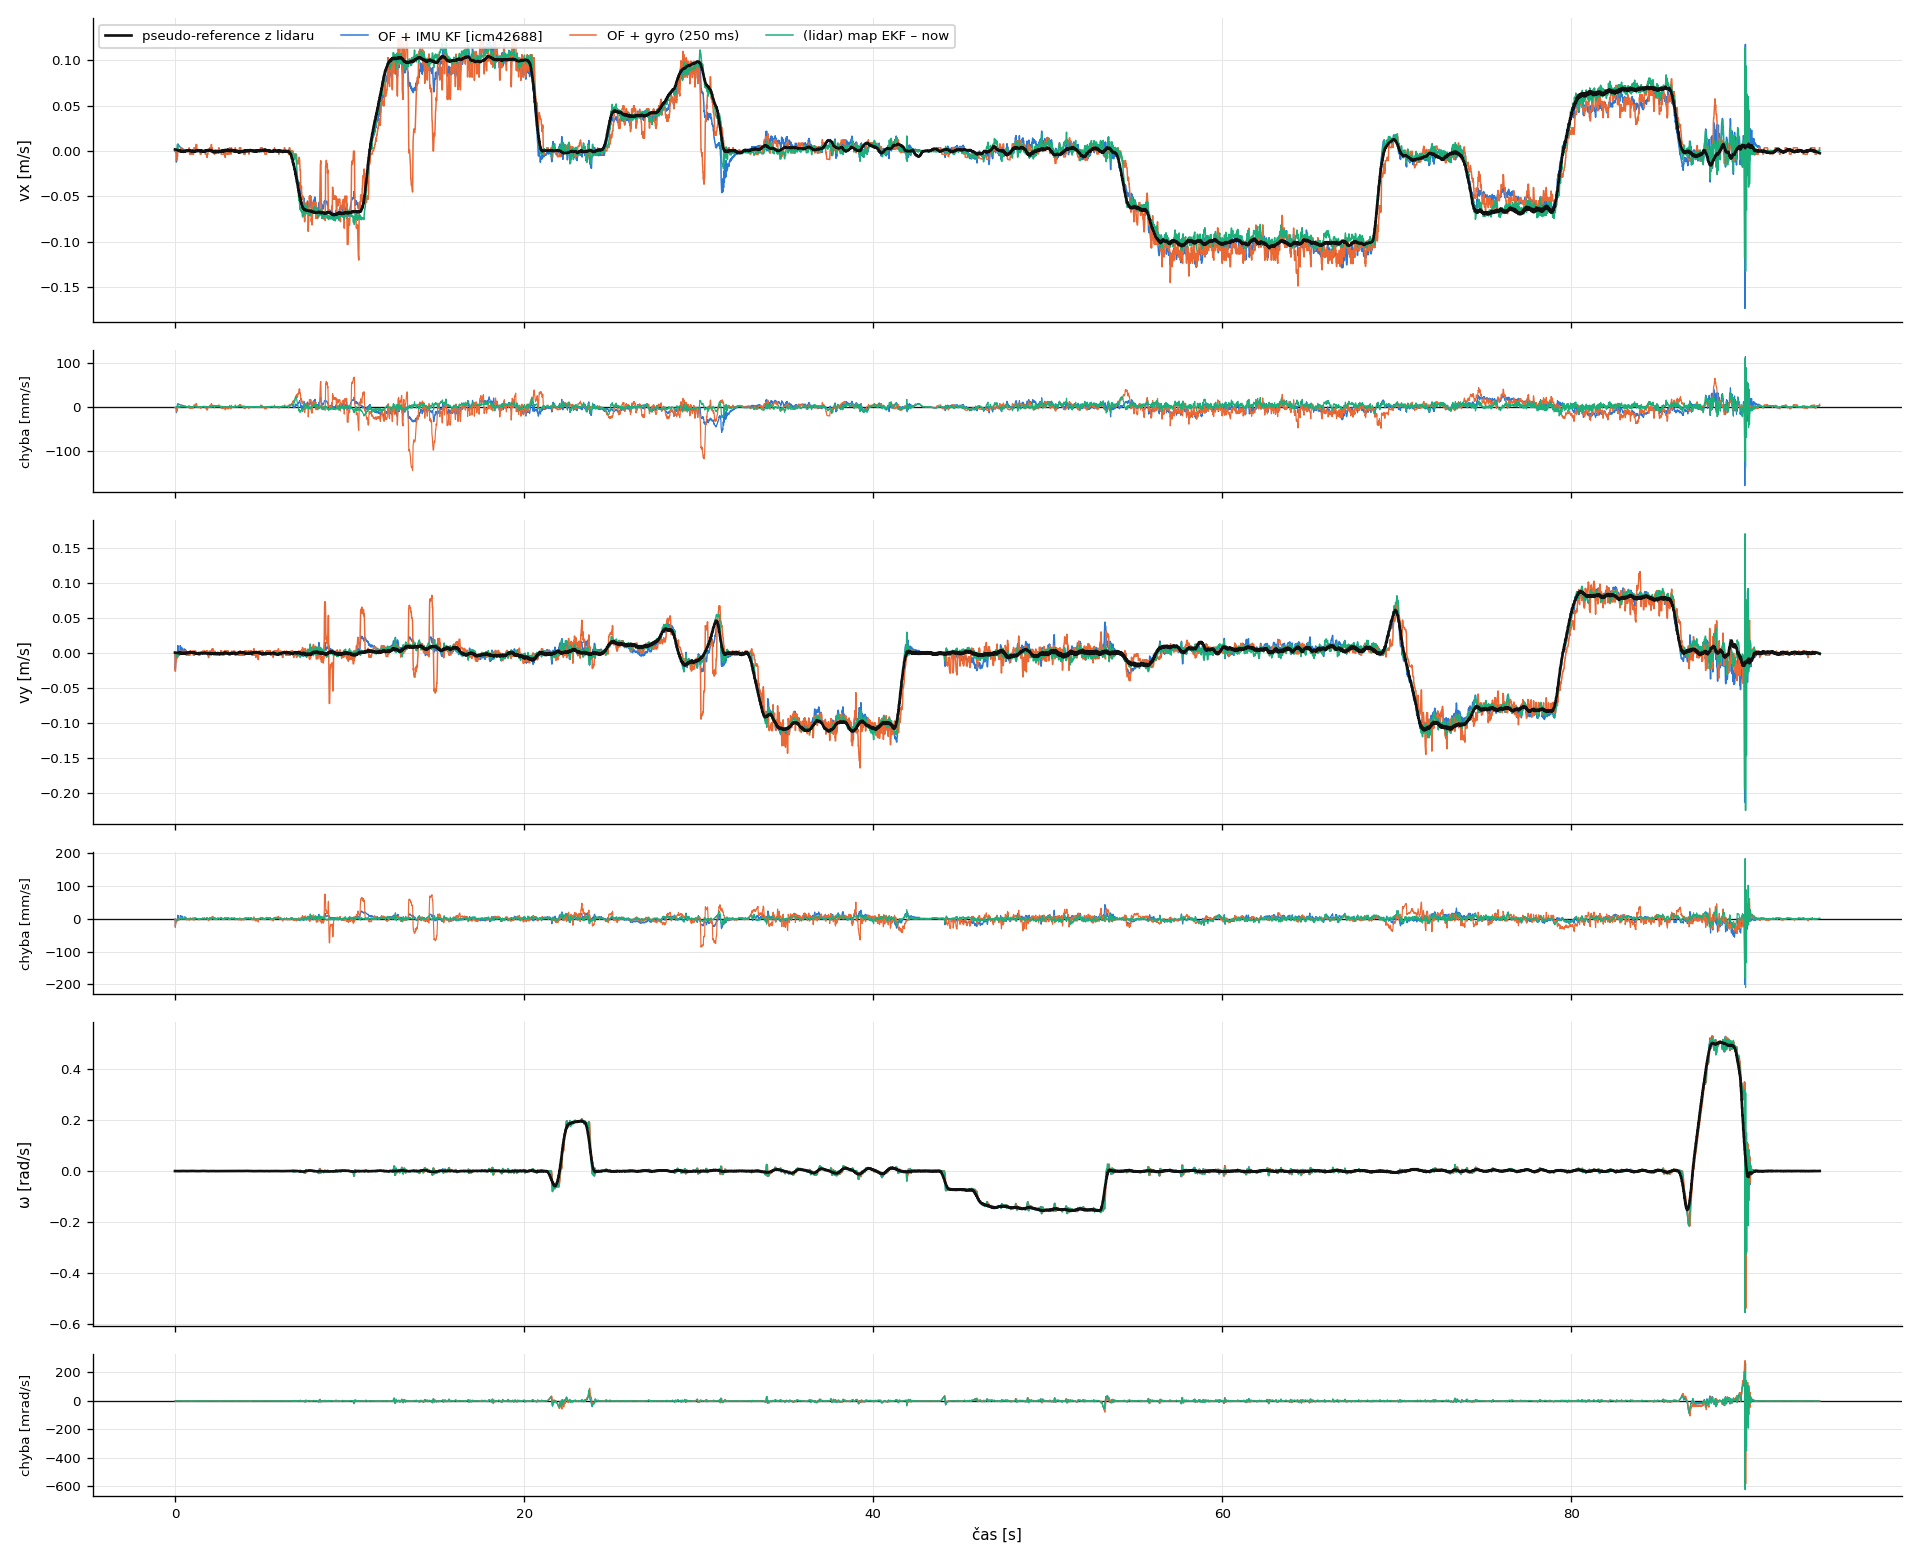
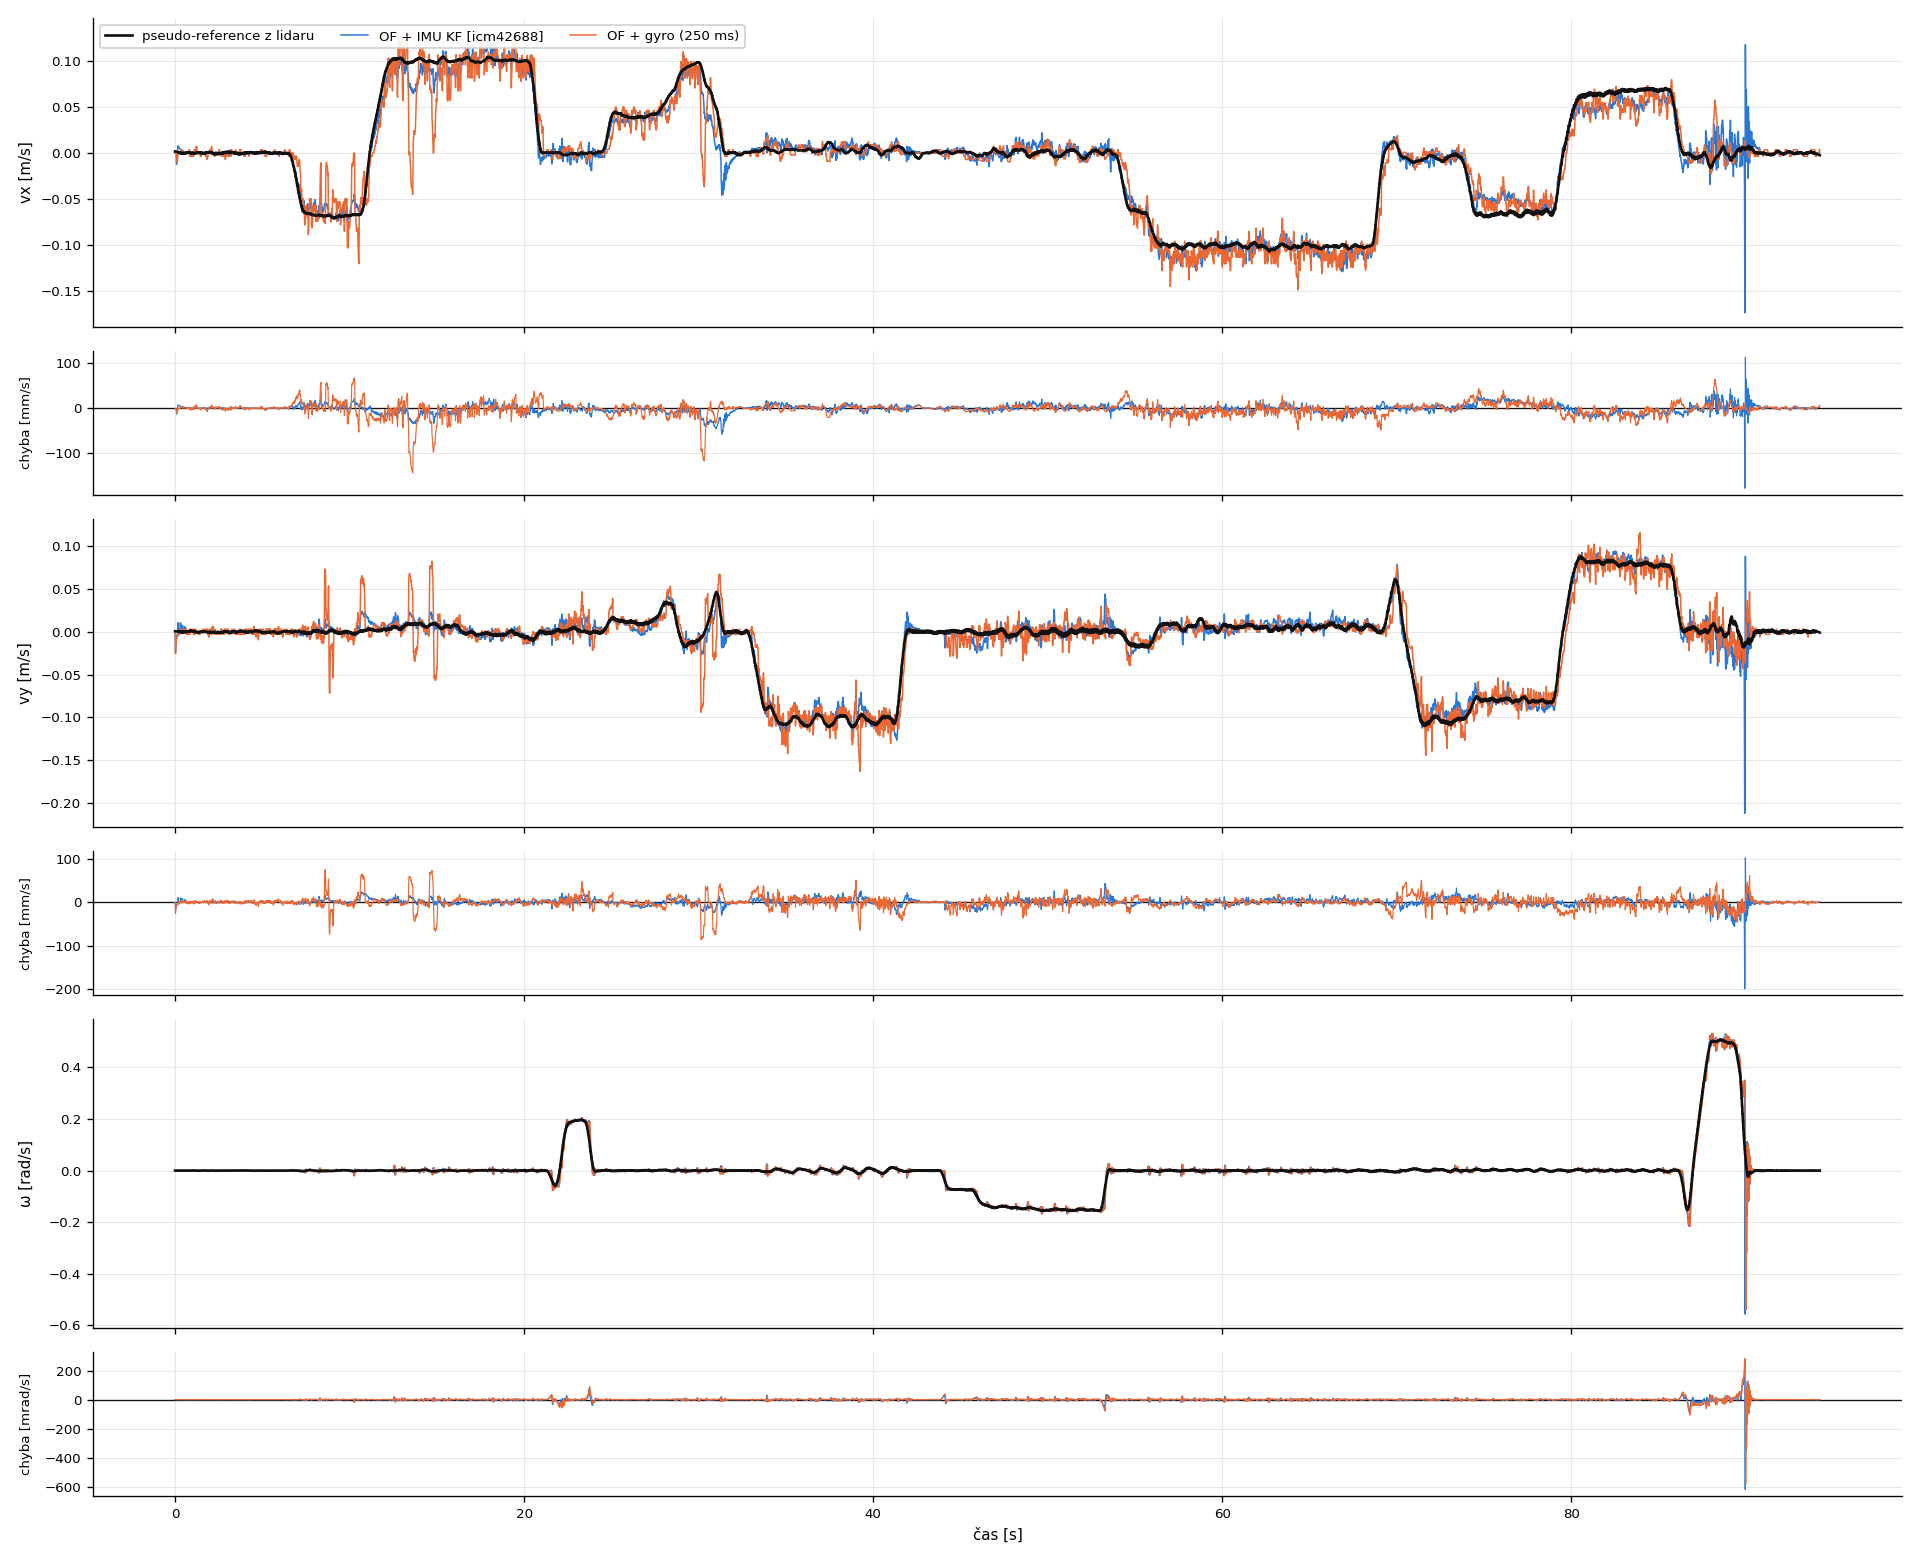
README: shorter chapter 12, optical-flow-only plots

diff --git a/README.md b/README.md
@@ -302,112 +302,50 @@ přístupu na port 23 firewallem (např. `ufw`) jen z adresy servisního PC.
 
 ## 12. Reálné testy na AGV
 
-Senzor byl namontovaný na AGV s mecanum koly a jeho data se zaznamenávala společně s IMU (ICM42688,
-BMI270, LSM6DSV80), enkodéry kol a lidary přes síťový TAP s HW časem. Vyhodnocení proběhlo offline,
-odhad rychlosti se porovnával se skutečnou rychlostí AGV.
+Senzor byl na AGV (mecanum) 0,67 m před středem, 0,03 m vlevo a 0,39 m nad podlahou. Data se
+nahrávala spolu s IMU a enkodéry kol a vyhodnotila se offline proti skutečné rychlosti AGV.
 
-### 12.1 Zapojení a záznam
+### Jak to funguje
 
-- **Montáž:** 0,67 m před středem AGV, 0,03 m vlevo, 0,39 m nad podlahou.
-  - Osy senzoru jsou vůči AGV prohozené: x AGV = y senzoru, y AGV = x senzoru.
-  - Zbytkové natočení je −1,2°.
-- **RPi** má IP 192.168.20.33. Služba `of-forward` (`scripts/setup_logging_service.sh`) se spustí po
-  startu a posílá **syrové Micolink rámce** na `192.168.20.255:12346` (100 Hz, ~22 kbit/s).
-  - Broadcast nepotřebuje žádného příjemce, stačí linka.
-  - `eth0` si drží IP i bez linky.
-  - Pro kalibraci nebo `sensor_node` se služba zastaví z telnetu příkazem `logging stop` a pak se
-    znovu spustí `logging start`.
-  - Čtení UART bere vždy jen to, co je v bufferu: rámce chodí rovnoměrně po 10 ms, jitter < 0,5 ms.
-- **TAP Beckhoff ET2000:** port, do kterého je RPi zapojené (např. X2.0 IN), nahodí linku jen tehdy,
-  když je na protějším portu páru (X2.0 OUT) také zapojené zařízení s linkou, třeba switch AGV.
-  Bez toho RPi nic nepošle.
+- **RPi** posílá po startu samo syrové rámce senzoru jako broadcast `192.168.20.255:12346`
+  (100 Hz, služba `of-forward`). Telnet `logging stop` / `logging start` ji uvolní pro kalibraci.
+- **Flow → rychlost:** v = flow · výška. Výška je pevná (0,39 m), ToF za jízdy šumí. Osy senzoru se
+  převedou do os AGV a každá osa má vlastní měřítko z jednorázové kalibrace.
+- **Fúze s IMU (Kalmanův filtr):**
+  - gyro odečte rychlost od otáčení podvozku, protože senzor je daleko od středu;
+  - akcelerometr drží průběh rychlosti mezi hrubými vzorky flow a dorovná zpoždění senzoru (~37 ms);
+  - když flow dlouhodobě nesouhlasí s IMU, filtr mu dočasně méně věří;
+  - v klidu se rychlost nuluje (ZUPT).
 
-### 12.2 Zpracování a fúze s IMU
+### Výsledky
 
-Filtrovaný výstup `sensor_node.py` se pro testy nepoužíval. EMA a medián v něm přidávají zpoždění
-a rotaci podvozku neřeší. Syrová data se zpracovala takto:
+Chyba rychlosti středu AGV (RMSE, vx podélně / vy příčně [mm/s], ω [mrad/s]), jízda do 0,1 m/s:
 
-1. **Flow → rychlost bodu senzoru:** v = flow [cm/s při 1 m] · 0,01 · výška.
-   - Výška je **pevná 0,39 m**. ToF za jízdy šumí ±3 cm, což by se přeneslo do měřítka.
-   - Každá osa má vlastní měřítko: x AGV ×1,14, y AGV ×0,98. Kalibrace proběhla jednou proti
-     referenci a na dalších záznamech se použila beze změny.
-2. **Rameno senzoru:** rychlost středu AGV = v_senzor − ω × r, kde ω je z gyra.
-   - Při otáčení je to dominantní člen: 0,1 rad/s · 0,67 m = 67 mm/s.
-   - Bez gyra je chyba vy při otáčení 90–150 mm/s.
-3. **Kalmanův filtr s IMU:** stav [vx, vy, bias akcelerometru].
-   - Predikce akcelerometrem, přepočteným do středu AGV přes polohu IMU.
-   - Měření je flow v bodě senzoru. Šum měření = kvantizace (krok²/12) + 0,05 m/s.
-   - **Bez odmítání odlehlých hodnot.** Flow je kvantovaný (0, 1, 2… px) a odmítání by
-     systematicky ořezávalo vyšší hodnoty, takže by rychlost vycházela o 20–30 % nižší.
-   - **Adaptivní šum:** když flow dlouhodobě nesouhlasí s IMU (klouzavý průměr normalizované
-     inovace přes 0,5 s), filtr mu dočasně méně věří.
-   - **ZUPT:** flow téměř nulový a IMU v klidu → v = 0, doučení biasu gyra.
-   - **Výstup „now“:** stav se IMU predikuje do okamžiku příjmu rámce, čímž se dorovná vlastní
-     zpoždění senzoru ~37 ms.
-
-### 12.3 Výsledky
-
-RMSE rychlosti středu AGV (vx podélně, vy příčně [mm/s], ω [mrad/s]). Zpoždění je posun, při
-kterém odhad nejlépe sedí s referencí.
-
-| metoda | záznam 2 (reference: lidar) | záznam 3 (reference: enkodéry kol) | zpoždění |
+| metoda | záznam 2 | záznam 3 (proti enkodérům) | zpoždění |
 |---|---|---|---|
-| flow bez IMU, průměr 250 ms | 15,4 / 60,6 / 88,9 | 22,3 / 34,3 / 44,6 | 165–170 ms |
-| flow + gyro, průměr 250 ms | 15,4 / 13,2 / 15,0 | 22,8 / 14,9 / 6,2 | 95–155 ms |
-| **flow + IMU, Kalmanův filtr** | **10,2 / 8,6 / 14,0** | **16,6 / 6,1 / 4,8** | **~5–15 ms** |
-| lidar + IMU (pro srovnání) | 7,2 / 8,3 / 16,2 | 6,2 / 4,9 / 4,9 | 25–35 ms |
+| flow, průměr 250 ms | 15 / 61 / 89 | 22 / 34 / 45 | ~170 ms |
+| flow + gyro | 15 / 13 / 15 | 23 / 15 / 6 | ~100–150 ms |
+| **flow + IMU (Kalmanův filtr)** | **10 / 9 / 14** | **17 / 6 / 5** | **~10 ms** |
 
-- Rychlost jízdy byla do 0,1 m/s, otáčení do 0,5 rad/s.
-- Záznam 2 nemá enkodéry. Referencí je trajektorie z lidaru, která se s koly shoduje na ~2,5 mm/s.
-- ω z gyra má na záznamu 2 chybu 14 mrad/s kvůli rychlé rotaci 0,5 rad/s na konci, kterou vyhlazená
-  reference nestíhá.
-
-Záznam 2, celý průběh (černě reference, modře flow + IMU, oranžově flow + gyro, zeleně lidar):
+Záznam 2 nemá enkodéry, referencí je trajektorie z lidaru (s koly se shoduje na ~2,5 mm/s).
 
 ![](./docs/agv_zaznam2_prubeh.png)
 
-Záznam 3 proti enkodérům kol:
-
 ![](./docs/agv_zaznam3_prubeh.png)
-
-Detail jízdy. Flow + IMU drží rychlost bez zpoždění, průměrovaný flow šumí a je zpožděný:
-
-![](./docs/agv_zaznam3_detail.png)
-
-Srovnání chyb všech variant (šedě metody z lidaru pro srovnání):
 
 ![](./docs/agv_zaznam3_rmse.png)
 
-Odhad proti enkodérům. Svislé „pruhy“ u vx = −0,1 m/s jsou úseky, kde flow při couvání měří méně:
+### Mezery
 
-![](./docs/agv_zaznam3_scatter.png)
+- **Hrubé rozlišení:** senzor posílá celé pixely za snímek (~8 cm/s ve výšce 0,39 m) a většina
+  snímků je nulová. Rychlost dává až průměrování nebo fúze s IMU.
+- **Pod ~20 mm/s** rychlost podhodnocuje.
+- **Výpadky podélné osy:** místy (hlavně při couvání) měří flow jen ~50 % rychlosti. IMU to jen
+  zmírní a kvalita flow to neprozradí.
 
-### 12.4 Zjištěné vlastnosti a mezery
+### Co doladit
 
-- **Kvantování po celých pixelech:** `flow_vel` jsou násobky 20 cm/s při 1 m, tj. krok ~7,8 cm/s
-  ve výšce 0,39 m.
-  - 70 % rámců je nulových a jednotlivý rámec rychlost prakticky neurčuje.
-  - Rychlost vznikne až průměrováním (zpoždění) nebo fúzí s IMU.
-- **Mrtvá zóna:** pod ~20 mm/s senzor rychlost podhodnocuje (~0,6×), zbytky pixelu se zřejmě ztrácejí.
-- **Výpadky podélné osy (vx):** v některých úsecích, typicky při couvání 0,1 m/s, měří flow jen
-  ~50 %. Je to vázané na místo a směr jízdy, příčná osa tím trpí výrazně méně.
-  - `flow_quality` to předem neprozradí (rozdíl 101 proti 105).
-  - Fúze s IMU chybu tlumí, ale neodstraní, protože akcelerometr pomalou chybu rychlosti nepozná.
-- **Asymetrie os:** osa y senzoru měří o ~14 % méně než osa x. Kalibrace per osa to opraví.
-- **Časování:** flow je o ~37 ms pozadu za skutečným pohybem. Hodiny senzoru (`time_ms`) jdou
-  o −2200 ppm proti reálnému času.
-- `flow_status` je pořád 1 a `dis_status` pořád 1. Význam není zdokumentovaný, proto se na ně
-  nefiltruje.
-
-### 12.5 Co doladit
-
-1. **Nižší montáž.** Krok kvantování je úměrný výšce: ve 0,15 m by byl ~3 cm/s místo 7,8 cm/s,
-   minimum senzoru je 8 cm. To je největší páka na přesnost i mrtvou zónu.
-2. **Přisvícení a povrch.** Kvalita je kolem 100/255. Rovnoměrné LED přisvícení podlahy by mělo
-   omezit výpadky na hladkých nebo lesklých místech.
-3. **Výpadky vx.** Ověřit na jiné podlaze a při jízdě vpřed/vzad stejným místem, zda jde o povrch,
-   odlesk, nebo vlastnost senzoru.
-4. **Kalibrace** měřítek os a natočení na cílové podlaze. Teď je z jednoho záznamu: proti
-   nominální montáži zlepšuje vx z 18,9 na 16,6 mm/s.
-5. **Fúze přímo v zařízení.** Filtr potřebuje IMU (gyro pro rameno a akcelerometr). Na RPi by
-   stačilo připojit IMU a nahradit EMA v `estimator.py` Kalmanovým filtrem popsaným v 12.2.
+1. Senzor níž nad podlahu: rozlišení je úměrné výšce (minimum 8 cm).
+2. Přisvítit podlahu a ověřit výpadky na jiném povrchu.
+3. Kalibraci měřítek os udělat na cílové podlaze.
+4. Fúzi s IMU přenést do zařízení místo EMA v `estimator.py`.
